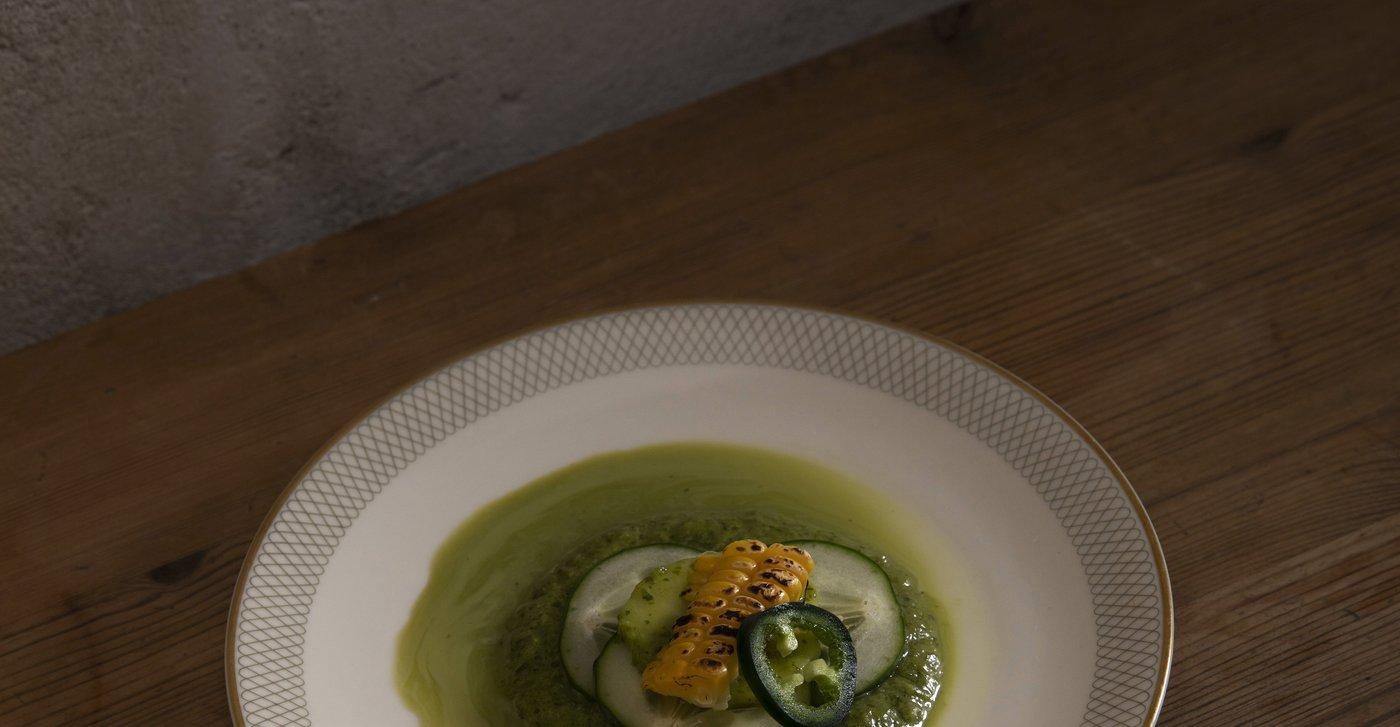
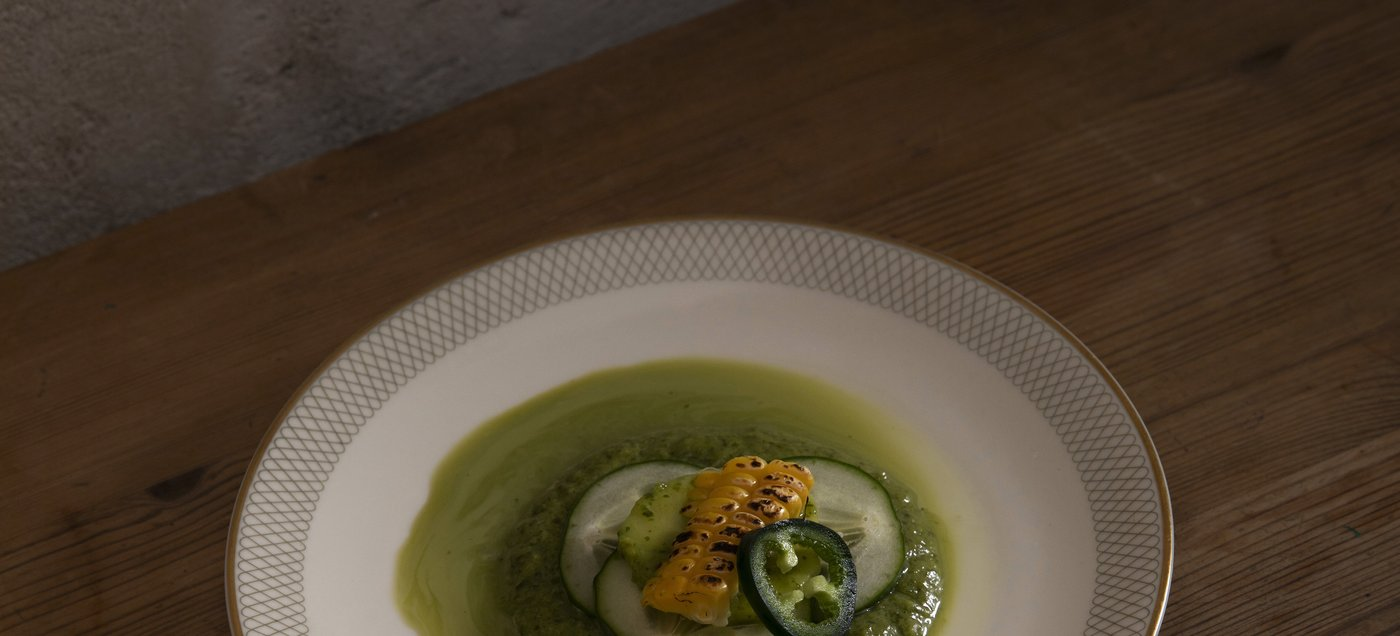
Komplett-Überarbeitung nach Skizze: BG #CEC2B2, schmales Hero, Hochformat-Slider, richtiges Event-Bild (6557 S/W), einzelner Dreizack Footer

diff --git a/src/routes/+page.svelte b/src/routes/+page.svelte
@@ -1,5 +1,14 @@
 <script>
 	import { base } from '$app/paths';
+
+	const slides = [
+		{ src: 'slide-1.jpg', alt: 'Lobster rolls' },
+		{ src: 'slide-2.jpg', alt: 'Taco on birch wood' },
+		{ src: 'slide-3.jpg', alt: 'Chef cooking' },
+		{ src: 'slide-4.jpg', alt: 'Plated dish' },
+		{ src: 'slide-5.jpg', alt: 'Dish detail' },
+		{ src: 'slide-6.jpg', alt: 'Croquettes' },
+	];
 </script>
 
 <svelte:head>
@@ -17,23 +26,19 @@
 		<p class="tagline">Private Dining Events · Berlin</p>
 	</section>
 
-	<!-- Hero: grüner Teller, EDGE-TO-EDGE -->
+	<!-- Hero: grüner Teller, edge-to-edge, schmal -->
 	<section class="featured">
 		<img src="{base}/images/hero.jpg" alt="Green dish with cucumber" />
 	</section>
 
-	<!-- 3er Gallery, EDGE-TO-EDGE, direkt am Hero -->
-	<section class="gallery">
-		<div class="grid">
-			<div class="grid-item">
-				<img src="{base}/images/gallery-1.jpg" alt="Lobster rolls" loading="lazy" />
-			</div>
-			<div class="grid-item">
-				<img src="{base}/images/gallery-2.jpg" alt="Taco bite on birch wood" loading="lazy" />
-			</div>
-			<div class="grid-item">
-				<img src="{base}/images/gallery-3.jpg" alt="Chef at work" loading="lazy" />
-			</div>
+	<!-- Slider: Hochformat-Bilder, 4. angeschnitten -->
+	<section class="slider">
+		<div class="slider-track">
+			{#each slides as slide}
+				<div class="slider-item">
+					<img src="{base}/images/{slide.src}" alt={slide.alt} loading="lazy" />
+				</div>
+			{/each}
 		</div>
 	</section>
 
@@ -50,7 +55,7 @@
 		</p>
 	</section>
 
-	<!-- Event Foto: S/W Dinner-Szene, EDGE-TO-EDGE -->
+	<!-- Event Foto: Raum, S/W, edge-to-edge -->
 	<section class="event-photo">
 		<img src="{base}/images/event.jpg" alt="Birk dinner event" />
 	</section>
@@ -66,7 +71,7 @@
 		</p>
 	</section>
 
-	<!-- Closer: Hummer, EDGE-TO-EDGE -->
+	<!-- Closer: Hummer, edge-to-edge -->
 	<section class="closer">
 		<img src="{base}/images/closer.jpg" alt="Lobster cooking" />
 	</section>
@@ -76,7 +81,7 @@
 		<p class="contact-label">contact</p>
 		<p class="contact-line">Inquiries & Bookings</p>
 		<a class="contact-email" href="mailto:hello@lebirk.de">hello@lebirk.de</a>
-		<img class="footer-trident" src="{base}/favicon.png" alt="Birk" />
+		<img class="footer-trident" src="{base}/images/trident.png" alt="Birk" />
 	</footer>
 </main>
 
@@ -87,7 +92,7 @@
 		overflow-x: hidden;
 	}
 
-	/* === HERO (Logo area) === */
+	/* === HERO (Logo) === */
 	.hero {
 		display: flex;
 		flex-direction: column;
@@ -98,19 +103,19 @@
 	}
 
 	.logo {
-		width: clamp(130px, 22vw, 220px);
+		width: clamp(130px, 22vw, 200px);
 		height: auto;
 	}
 
 	.tagline {
 		font-family: var(--font-body);
-		font-size: 0.8rem;
+		font-size: 0.75rem;
 		letter-spacing: 0.12em;
 		color: var(--color-text);
-		margin-top: 0.5rem;
+		margin-top: 0.4rem;
 	}
 
-	/* === FEATURED (Hero Image) — edge-to-edge === */
+	/* === FEATURED (Hero Teller) — edge-to-edge, schmal === */
 	.featured {
 		padding: 0;
 	}
@@ -121,49 +126,58 @@
 		display: block;
 	}
 
-	/* === GALLERY 3er Reihe — edge-to-edge, direkt am Hero === */
-	.gallery {
-		padding: 0;
-	}
-
-	.grid {
-		display: grid;
-		grid-template-columns: repeat(3, 1fr);
-		gap: 3px;
-	}
-
-	.grid-item {
+	/* === SLIDER === */
+	.slider {
+		padding: 3px 0 0 0;
 		overflow: hidden;
 	}
 
-	.grid-item img {
+	.slider-track {
+		display: flex;
+		gap: 3px;
+		overflow-x: auto;
+		scroll-snap-type: x mandatory;
+		-webkit-overflow-scrolling: touch;
+		scrollbar-width: none;
+	}
+
+	.slider-track::-webkit-scrollbar {
+		display: none;
+	}
+
+	.slider-item {
+		flex: 0 0 31%;
+		scroll-snap-align: start;
+	}
+
+	.slider-item img {
 		width: 100%;
-		height: 100%;
-		object-fit: cover;
+		height: auto;
 		display: block;
+		object-fit: cover;
 	}
 
 	/* === CONCEPT TEXT === */
 	.konzept {
-		padding: 3rem 2rem;
-		max-width: 600px;
+		padding: 2.5rem 2.5rem;
+		max-width: 550px;
 		margin: 0 auto;
 		text-align: center;
 	}
 
 	.konzept-text {
 		font-family: var(--font-body);
-		font-size: 0.85rem;
-		line-height: 1.75;
+		font-size: 0.82rem;
+		line-height: 1.7;
 		color: var(--color-text);
-		margin-top: 1.2rem;
+		margin-top: 1rem;
 	}
 
 	.konzept-text:first-child {
 		margin-top: 0;
 	}
 
-	/* === EVENT PHOTO — edge-to-edge, S/W === */
+	/* === EVENT PHOTO — edge-to-edge === */
 	.event-photo {
 		padding: 0;
 	}
@@ -177,7 +191,7 @@
 	/* === PORTRAIT + ABOUT === */
 	.portrait-section {
 		padding: 3.5rem 2rem;
-		max-width: 600px;
+		max-width: 580px;
 		margin: 0 auto;
 		text-align: center;
 		display: flex;
@@ -186,16 +200,16 @@
 	}
 
 	.portrait-img {
-		width: 55%;
-		max-width: 380px;
+		width: 50%;
+		max-width: 320px;
 		height: auto;
 		margin-bottom: 2rem;
 	}
 
 	.portrait-text {
 		font-family: var(--font-body);
-		font-size: 0.85rem;
-		line-height: 1.75;
+		font-size: 0.82rem;
+		line-height: 1.7;
 		color: var(--color-text);
 	}
 
@@ -212,61 +226,45 @@
 
 	/* === FOOTER === */
 	footer {
-		padding: 3rem 2rem 2rem;
+		padding: 2.5rem 2rem 3rem;
 		text-align: center;
 	}
 
 	.contact-label {
 		font-family: var(--font-body);
-		font-size: 0.85rem;
-		letter-spacing: 0.06em;
+		font-size: 0.82rem;
+		letter-spacing: 0.04em;
 		color: var(--color-text);
-		margin-bottom: 0.2rem;
+		margin-bottom: 0.1rem;
 	}
 
 	.contact-line {
 		font-family: var(--font-body);
-		font-size: 0.85rem;
+		font-size: 0.82rem;
 		color: var(--color-text);
-		letter-spacing: 0.04em;
+		letter-spacing: 0.03em;
 	}
 
 	.contact-email {
 		font-family: var(--font-body);
-		font-size: 0.85rem;
+		font-size: 0.82rem;
 		color: #FF0000;
-		margin-top: 0.6rem;
-		letter-spacing: 0.03em;
+		margin-top: 0.5rem;
+		letter-spacing: 0.02em;
 		text-decoration: none;
 		display: block;
 	}
 
 	.footer-trident {
-		width: 24px;
+		width: 20px;
 		height: auto;
-		margin-top: 1.2rem;
+		margin-top: 0.8rem;
 	}
 
 	/* === MOBILE === */
-	@media (max-width: 768px) {
-		.hero {
-			padding: 2rem 1.5rem 1.2rem;
-		}
-
-		.konzept {
-			padding: 2.5rem 1.2rem;
-		}
-
-		.portrait-section {
-			padding: 2.5rem 1.2rem;
-		}
-
-		.portrait-img {
-			width: 60%;
-		}
-
-		footer {
-			padding: 2.5rem 1.2rem 1.5rem;
+	@media (max-width: 720px) {
+		main {
+			max-width: 100%;
 		}
 	}
 
@@ -276,7 +274,11 @@
 		}
 
 		.tagline {
-			font-size: 0.7rem;
+			font-size: 0.65rem;
+		}
+
+		.slider-item {
+			flex: 0 0 38%;
 		}
 
 		.konzept {
@@ -288,11 +290,11 @@
 		}
 
 		.portrait-section {
-			padding: 2rem 1rem;
+			padding: 2.5rem 1rem;
 		}
 
 		.portrait-img {
-			width: 70%;
+			width: 60%;
 		}
 
 		.portrait-text {
@@ -300,7 +302,7 @@
 		}
 
 		footer {
-			padding: 2rem 1rem 1.5rem;
+			padding: 2rem 1rem 2.5rem;
 		}
 	}
 </style>

diff --git a/src/app.css b/src/app.css
@@ -1,7 +1,7 @@
 @import url('https://fonts.googleapis.com/css2?family=Inter:wght@300;400;500;600;700&display=swap');
 
 :root {
-	--color-bg: #e8d5b0;
+	--color-bg: #CEC2B2;
 	--color-text: #2a2522;
 	--color-muted: #8a8279;
 	--color-accent: #c4a97d;
